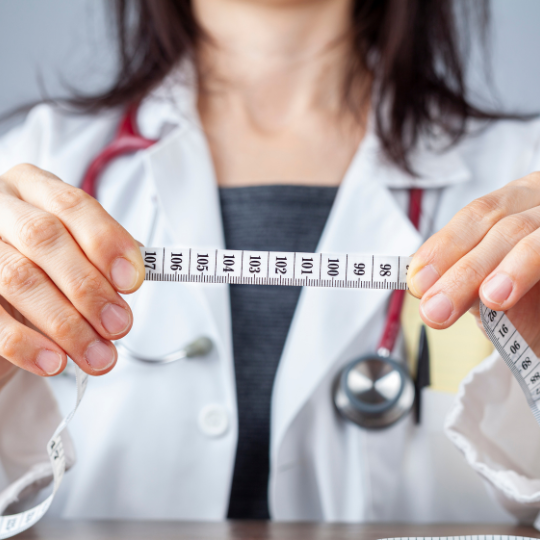
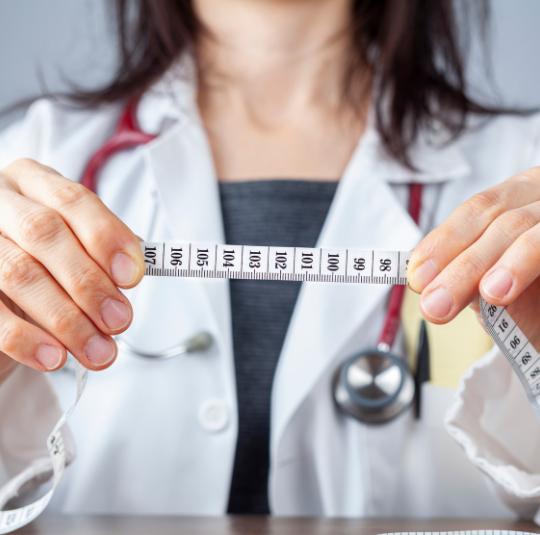
Update de imagens e ajustes de estrutura e estilo nas seções 3 e 5

diff --git a/src/index.html b/src/index.html
@@ -67,18 +67,13 @@
                   temporibus fugit! Velit aspernatur, quos rerum 
                   similique dolorem ad nesciunt nemo dicta. 
                   Quibusdam ab ad ex labore dolorum cum iste 
-                  rem neque et consequuntur quaerat ratione illo, 
-                  magnam velit perferendis voluptate corporis 
-                  inventore autem. Sit cum nemo aliquam architecto.
+                 
                   <br><br>
                   Lorem ipsum dolor sit, amet consectetur 
                   adipisicing elit. Distinctio inventore totam 
                   temporibus fugit! Velit aspernatur, quos rerum 
                   similique dolorem ad nesciunt nemo dicta.
-                  Quibusdam ab ad ex labore dolorum cum iste 
-                  rem neque et consequuntur quaerat ratione illo, 
-                  magnam velit perferendis voluptate corporis 
-                  inventore autem. Sit cum nemo aliquam architecto.  
+                   
                 </p>
                 <br>
 
@@ -124,7 +119,7 @@
                   Shopping 33, Torre<br>
                   Vila Sta. Cecília, Volta Redonda - RJ
                 </p>
-                <a href="https://www.whatsapp.com/"><img class="icon-wpp" src="./images/logo-wpp.png" alt=""></a>
+                <a href="https://www.whatsapp.com/" target="_blank"><img class="icon-wpp" src="./images/logo-wpp.png" alt=""></a>
             </aside>
 
             <article>
@@ -135,8 +130,8 @@
                 </h3>
                 
                 <div>
-                    <input type="text" placeholder="Nome">
-                    <input type="email" placeholder="E-mail"">
+                    <input class="input-form" type="text" placeholder="Nome">
+                    <input class="input-form" type="email" placeholder="E-mail"">
                 </div>
                 <div>
                     <textarea name="message" id="message" cols="50" rows="10" placeholder="Digite sua mensagem aqui..."></textarea>
@@ -149,8 +144,8 @@
         </section>
 
         <section>
-            <div id="maps">
-                <iframe src="https://www.google.com/maps/embed?pb=!1m18!1m12!1m3!1d29485.311130385937!2d-44.128943432385086!3d-22.516790353521316!2m3!1f0!2f0!3f0!3m2!1i1024!2i768!4f13.1!3m3!1m2!1s0x9e986bce439c9d%3A0xe8f473c567315e7e!2sVila%20Santa%20Cec%C3%ADlia%2C%20Volta%20Redonda%20-%20RJ!5e0!3m2!1spt-BR!2sbr!4v1668548722961!5m2!1spt-BR!2sbr" width="1519" height="400" style="border:0;" allowfullscreen="" loading="lazy" referrerpolicy="no-referrer-when-downgrade"></iframe>
+            <div>
+                <iframe src="https://www.google.com/maps/embed?pb=!1m18!1m12!1m3!1d29485.31958798538!2d-44.128943456243064!3d-22.516750709270635!2m3!1f0!2f0!3f0!3m2!1i1024!2i768!4f13.1!3m3!1m2!1s0x9e986bce439c9d%3A0xe8f473c567315e7e!2sVila%20Santa%20Cec%C3%ADlia%2C%20Volta%20Redonda%20-%20RJ!5e0!3m2!1spt-BR!2sbr!4v1668698361053!5m2!1spt-BR!2sbr" width="600" height="450" style="border:0;" allowfullscreen="" loading="lazy" referrerpolicy="no-referrer-when-downgrade"></iframe>
             </div>
         </section>
 
@@ -192,9 +187,9 @@
                         <label>Peso:</label>
                         <input class="input-imc" type="number" id="weight" placeholder="58" required>
                     </div>
-                    <br>
+                  </div>
+                  <div id="button-result">
                     <button id='calculate'>Calcular</button>
-            
                     <div id='result'></div>
                   </div>
                 
@@ -203,7 +198,7 @@
         </section>       
 
     <footer>
-        <p id="dev-footer">Atividade para Comunidade Code | Nutricionista Fake | Dev Front-end <a href="https://www.linkedin.com/in/avilacamilla/">Camilla Avila</a></p>
+        <p id="dev-footer">Atividade para Comunidade Code | Nutricionista Fake | Dev Front-end <a href="https://www.linkedin.com/in/avilacamilla/" target="_blank">Camilla Avila</a></p>
     </footer>
     <script src='./js/main.js'></script>
 </body>

diff --git a/src/css/style.css b/src/css/style.css
@@ -6,10 +6,7 @@
 
 html {
     scroll-behavior: smooth;
-}
-
-body {
-    background-color: #1b7e83;
+    background-color: #1b7e83
 }
 
 /* Navegação */
@@ -22,16 +19,18 @@ header {
     justify-content: space-around;
     align-items: center;
     width: 100%;
-    background-color: #1b7e83b9;
-    transition: all ease 0.2s;
+    height: 14%;
+    background-color: #1b7e83b6;
 }
 
 #logo {
-    width: 60%;
+    margin-top: 1%;
+    width: 50%;
     cursor: pointer;
 }
 
 li {
+    margin-top: 1%;
     display: inline-block;
     margin-right: 1.25rem;
 }
@@ -65,7 +64,7 @@ a:hover {
 #first-section { 
     background-color: #d6a7e4;
     color: #f7f7f7;
-    margin-top: 110px;
+    margin-top: 99px;
     display: flex;
     align-items: center;     
 }
@@ -109,12 +108,12 @@ article {
 
 /*Segundo Bloco de conteúdo*/
 
-#second-section, #fourth-section { 
+#second-section { 
     background-color: #dfdcdc;
     color: #777777;
     margin-top: -5px;
     display: flex;
-    align-items: center;     
+    align-items: center;    
 }
 
 #services {
@@ -187,9 +186,10 @@ hr {
     margin-bottom: 2rem;
 }
 
-input {
+.input-form {
+    display: inline-block;
     width: 15.8rem;
-    height: 2rem;
+    height: 2.4rem;
     padding: 1rem;
     margin-right: 0.30rem;
     margin-bottom: 5px;
@@ -224,39 +224,52 @@ textarea {
     transform: scale(1.1);
 }
 
+#fourth-section { 
+    background-color: #dfdcdc;
+    color: #777777;
+    margin-top: -5px;
+    display: flex;
+    align-items: center
+}
+
 /*Maps*/
 
-#maps {
-    height: 100%;
+iframe {
+    width: 100%;
 }
 
 /* Seção IMC */
-/* Calculadora */
 
 .container {
-
+    display: flex;
 }
 
-.input-imc, #name {
-    display: flex;
-    align-items: center;
-   
+label {
+    font-weight: 600;
+    text-transform: uppercase;
+    margin-right: 9px;
+    
 }
 
-#result{
-    display: flex;
-    margin-top: 20px;
+input {
     align-items: center;
-    width: 700px;
-    color: #5a5a5a;
-    padding: 40px;
-    box-sizing: border-box;
-    user-select: none;
+    width: 10.8rem;
+    height: 2.4rem;
+    padding: 1rem;
+    margin-right: 0.30rem;
+    border: none;
+    border-radius: 3px;
+    box-shadow: 1px 5px 20px rgba(0, 0, 0, 0.171);
+    outline: none;  
 }
 
 ::-webkit-input-placeholder {
     color: #77777779;
     font-style: italic;
+}
+
+#button-result {
+    margin-top: 2rem;
 }
 
 button {
@@ -274,6 +287,17 @@ button {
 button:hover {
     background-color: #1b7e83;
     color: #FFF;
+}
+
+#result{
+    display: flex;
+    margin-top: 20px;
+    align-items: center;
+    width: 600px;
+    color: #5a5a5a;
+    padding: 40px;
+    box-sizing: border-box;
+    user-select: none;
 }
 
 

diff --git a/src/js/main.js b/src/js/main.js
@@ -27,7 +27,7 @@ function bmi () {
             riskRating = 'com obesidade grau III. Agende uma consulta!';
         }
 
-        result.textContent = `${name}, seu IMC é ${valueBMI}. Você está ${riskRating}`;
+        result.textContent = `Oi ${name}, seu IMC é ${valueBMI}. Você está ${riskRating}`;
         
     }else {
         result.textContent = '***Preencha todos os campos.';
